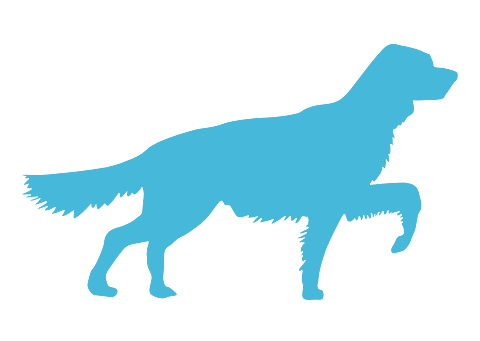
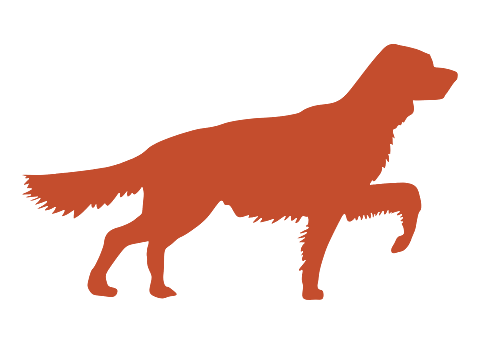
Brand color should really be reddish, right?

Changed region(s): [[0.0312, 0.1173, 0.9688, 0.8798]]

diff --git a/static/less/setter/setter-main.less b/static/less/setter/setter-main.less
@@ -1,4 +1,4 @@
-@setter-brand:		#46b8da;
+@setter-brand:		#c44d2d;
 
 .navbar-default {
 	.navbar-brand {
